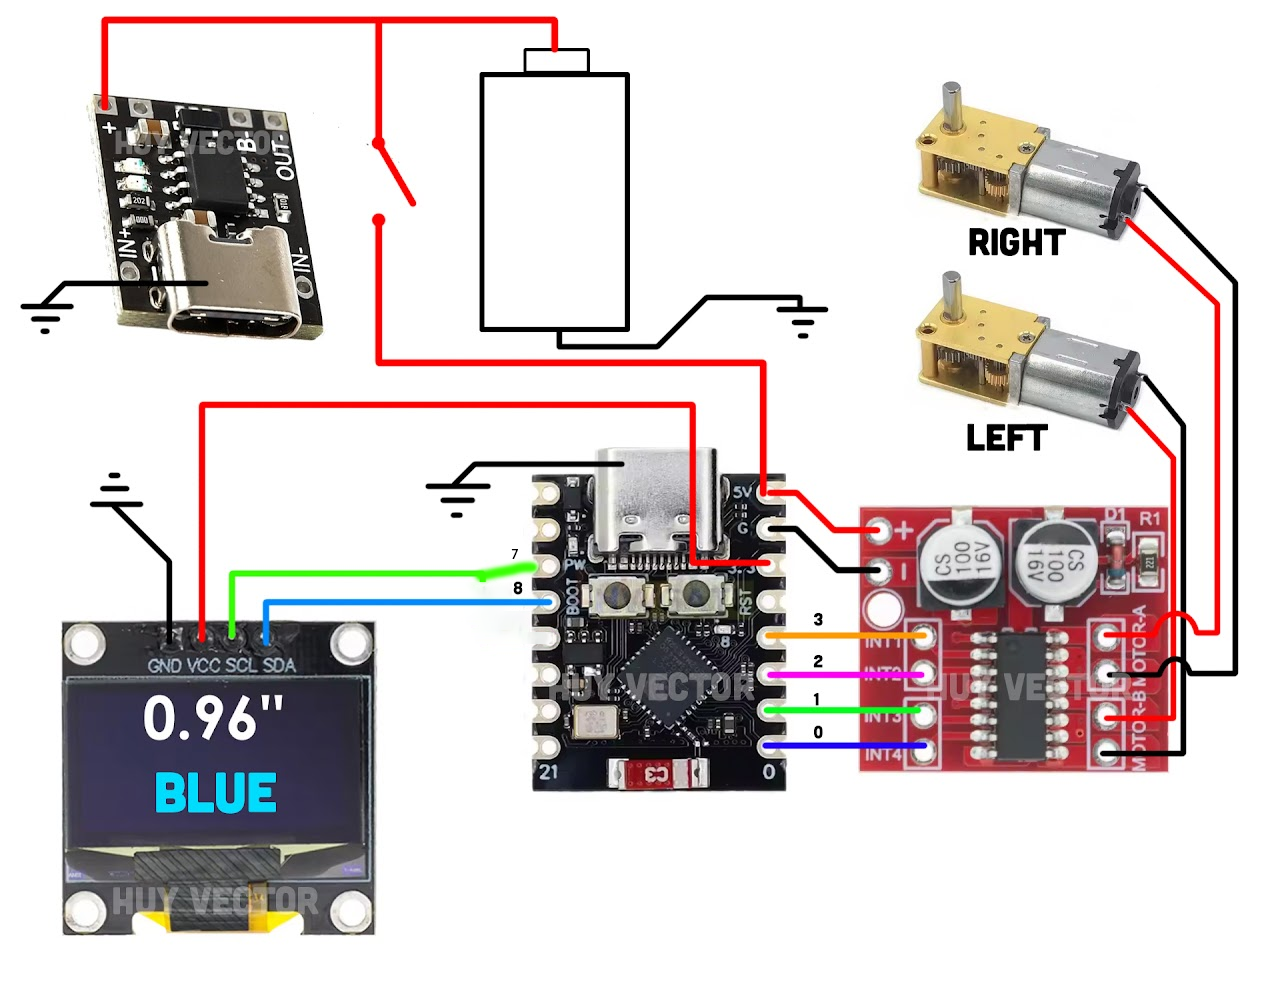
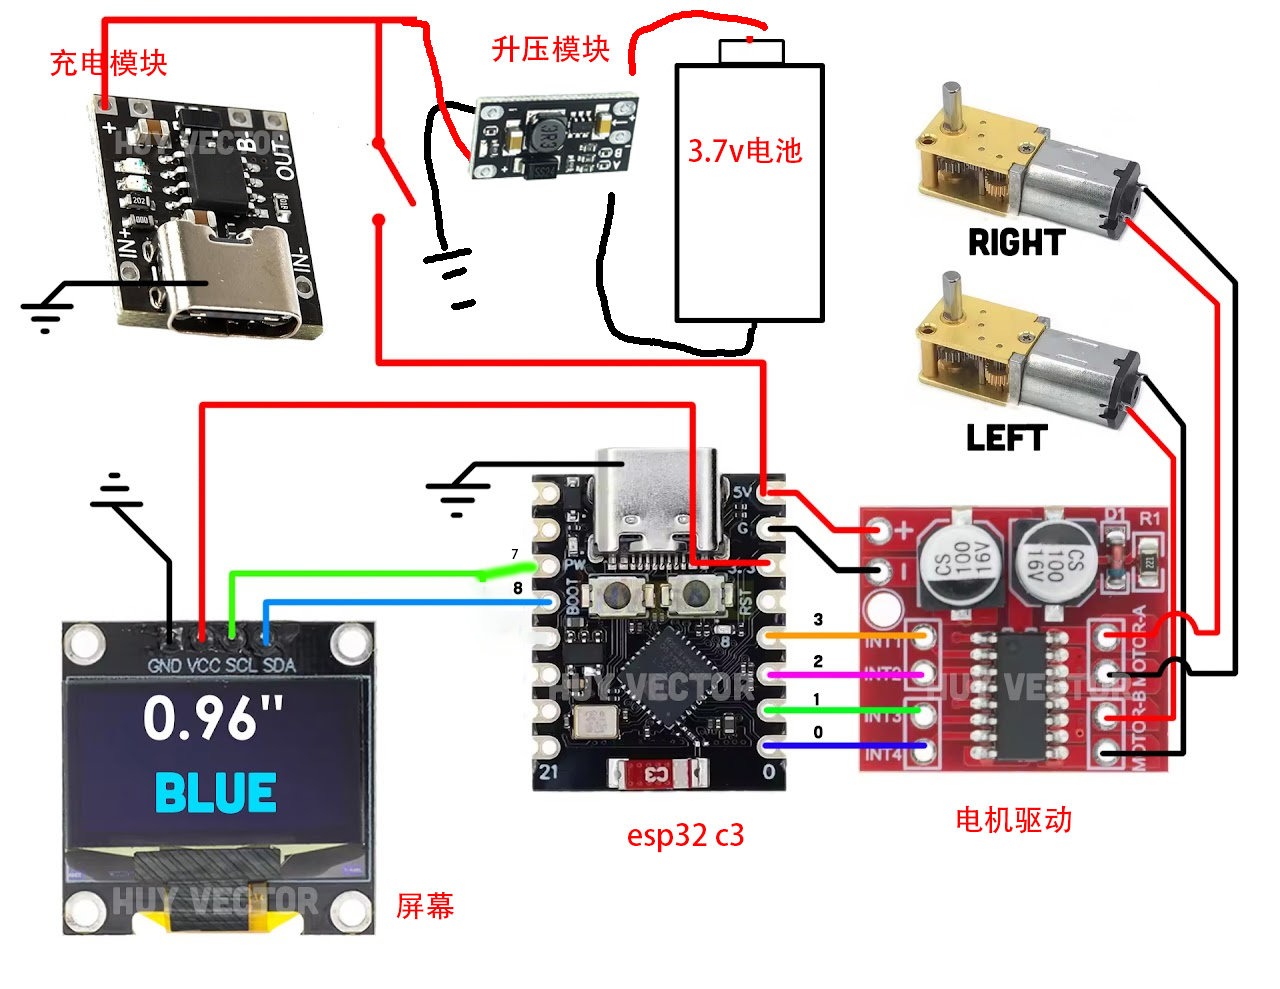
天气同步改为20分钟 + 恢复漂亮UI
- 天气同步从30分钟改为20分钟（120 x 10s）
- Web UI 恢复原版渐变面板+网格布局+发光按钮样式
- 供电问题已解决（升压模块），不再需要极致精简HTML

diff --git a/src/main.cpp b/src/main.cpp
@@ -199,10 +199,10 @@ void weatherTask(void *param) {
     }
     http.end();
 
-    // 成功 30 分钟同步一次（WiFi 在线才等）；失败 60 秒后重试
+    // 成功 20 分钟同步一次（WiFi 在线才等）；失败 60 秒后重试
     if (code == 200) {
-      // 30 分钟内每 10 秒检查 WiFi，断线就提前退出，等 WiFi 恢复再同步
-      for (int i = 0; i < 180 && WiFi.status() == WL_CONNECTED; i++) {
+      // 20 分钟内每 10 秒检查 WiFi，断线就提前退出，等 WiFi 恢复再同步
+      for (int i = 0; i < 120 && WiFi.status() == WL_CONNECTED; i++) {
         vTaskDelay(pdMS_TO_TICKS(10000));
       }
     } else {
@@ -713,19 +713,31 @@ void drawSky() {
 
 /* ================= WEB UI ================= */
 void handleRoot() {
-  // 零 CSS：纯浏览器默认组件，~500 字节，弱 WiFi 下秒开
-  String page = R"rawliteral(<!DOCTYPE html><meta charset=UTF-8><meta name=viewport content="width=device-width,initial-scale=1">
-<title>MOCHAN</title>
-<h2 align=center>MOCHAN 摸铲</h2>
-<p><button onclick=f('/f')>前进</button> <button onclick=f('/b')>后退</button></p>
-<p><button onclick=f('/l')>左转</button> <button onclick=f('/r')>右转</button> <button onclick=f('/s')>停止</button></p>
-<hr>
-<p><button id=b1 onclick=sm('off')>休眠</button> <button id=b2 onclick=sm('soft')>摇摆</button> <button id=b3 onclick=sm('normal')>好奇</button></p>
-<p><a href=/bg>背景设置</a></p>
+  // 参考原版 Mochan 的渐变面板 + 网格布局 + 发光按钮
+  // 供电问题已解决（升压模块），不用再极致精简，恢复漂亮 UI
+  String page = R"rawliteral(<!DOCTYPE html><html><head><meta charset=UTF-8><meta name=viewport content="width=device-width,initial-scale=1">
+<style>body{margin:0;height:100vh;background:radial-gradient(circle at top,#0f2027,#000);color:#0ff;font-family:Arial;display:flex;align-items:center;justify-content:center}
+.p{width:260px;padding:20px;border-radius:18px;background:rgba(0,255,225,0.05);border:1px solid rgba(0,255,225,0.4);box-shadow:0 0 25px rgba(0,255,225,0.3)}
+h2{text-align:center;margin:0 0 14px;letter-spacing:2px}
+.g{display:grid;grid-template-columns:1fr 1fr 1fr;grid-template-rows:60px 60px 60px;gap:10px}
+button{border:0;border-radius:12px;font-size:16px;font-weight:bold;background:linear-gradient(145deg,#0ff,#00b3a4);color:#000}
+.s{background:linear-gradient(145deg,#f55,#a00);color:#fff}
+.e{background:none}
+.m{margin-top:12px;display:flex;gap:6px}
+.m button{flex:1;font-size:13px;opacity:.5}
+.m .a{opacity:1;background:linear-gradient(145deg,#0fc,#0a6);box-shadow:0 0 12px rgba(0,255,180,0.8)}
+.f{margin-top:14px;text-align:center;font-size:11px;opacity:.6}
+a{color:#0ff}</style></head><body>
+<div class=p><h2>MOCHAN 摸铲</h2><div class=g>
+<div class=e></div><button onclick=f('/f')>前进</button><div class=e></div>
+<button onclick=f('/l')>左转</button><button class=s onclick=f('/s')>停止</button><button onclick=f('/r')>右转</button>
+<div class=e></div><button onclick=f('/b')>后退</button><div class=e></div>
+</div><div class=m><button id=b1 onclick=sm('off')>休眠</button><button id=b2 onclick=sm('soft')>摇摆</button><button id=b3 class=a onclick=sm('normal')>好奇</button></div>
+<div class=f><a href=/bg>背景设置</a></div></div>
 <script>
 function f(u){fetch(u)}
-function sm(m){fetch('/mode_'+m);['b1','b2','b3'].forEach(i=>document.getElementById(i).style.fontWeight='normal');document.getElementById(m=='off'?'b1':m=='soft'?'b2':'b3').style.fontWeight='bold'}
-</script>)rawliteral";
+function sm(m){fetch('/mode_'+m);['b1','b2','b3'].forEach(i=>document.getElementById(i).classList.remove('a'));document.getElementById(m=='off'?'b1':m=='soft'?'b2':'b3').classList.add('a')}
+</script></body></html>)rawliteral";
   // 浏览器缓存 1 天：首次打开慢，之后秒开
   server.sendHeader("Cache-Control", "max-age=86400");
   server.send(200, "text/html; charset=utf-8", page);